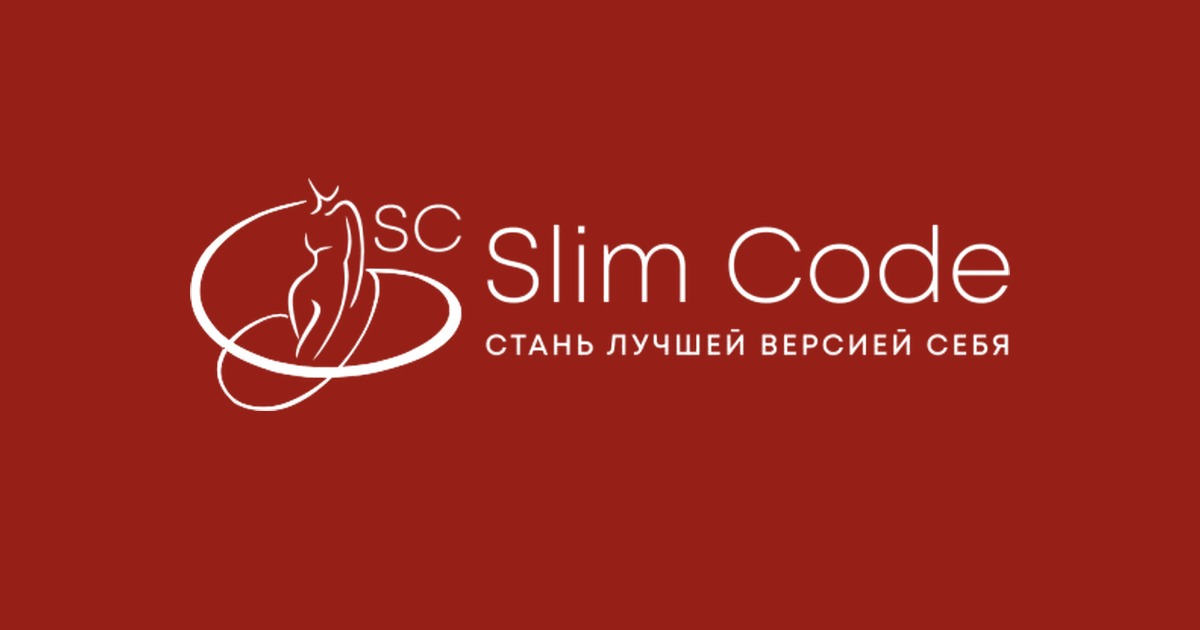
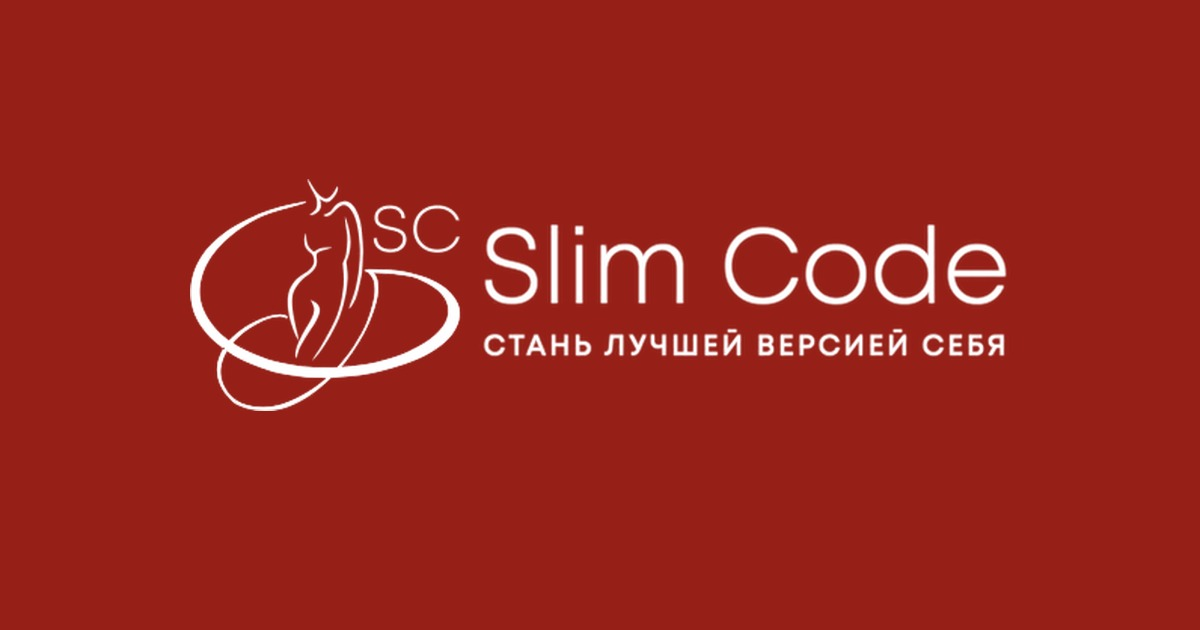
Надпись в логотипе плотнее, сборка ассетов вынесена в скрипт
Правка касается только логотипа: «Slim Code» и слоган набраны плотнее,
чем в присланном макете (+37% массы штриха у надписи). Знак — силуэт и
эллипс — не тронут: это рисунок, а не шрифт. Шрифт самого сайта возвращён
к исходному весу предыдущим коммитом.

Утолщение сделано наращиванием штриха на четырёхкратном увеличении с
последующим уменьшением, поэтому края остались гладкими.

Сборка ассетов вынесена в tools/make-logo-assets.py, исходный макет
положен в assets/source/. Сила утолщения — константа BOLD в начале
скрипта, пересобрать всё можно одной командой.

Ширина логотипа выросла с 541 до 544 px — атрибуты width в разметке
обновлены на всех четырёх страницах.

Claude-Session: https://claude.ai/code/session_01L4UBNKvQEpTDavcoSx63fQ

diff --git a/index.html b/index.html
@@ -770,7 +770,7 @@ section[id]{scroll-margin-top:80px}
 <header class="header" id="header">
   <div class="wrap header__in">
     <a href="#top" class="logo" aria-label="Slim Code Lab — на главную">
-      <img src="assets/logo.png" alt="Slim Code Lab" width="541" height="154">
+      <img src="assets/logo.png" alt="Slim Code Lab" width="544" height="154">
     </a>
 
     <nav class="nav" aria-label="Основная навигация">
@@ -1239,7 +1239,7 @@ section[id]{scroll-margin-top:80px}
     <div class="footer__top">
       <div class="footer__col">
         <a href="#top" class="logo logo--full">
-          <img src="assets/logo-full.png" alt="Slim Code Lab — стань лучшей версией себя" width="541" height="154">
+          <img src="assets/logo-full.png" alt="Slim Code Lab — стань лучшей версией себя" width="544" height="154">
         </a>
         <p class="footer__desc">Сеть салонов аппаратной коррекции фигуры в Санкт-Петербурге. Работаем с 2001 года.</p>
         <div class="socials">

diff --git a/consent.html b/consent.html
@@ -19,7 +19,7 @@
 
 <header class="top">
   <div class="wrap top__in">
-    <a href="index.html" class="logo"><img src="assets/logo.png" alt="Slim Code Lab" width="541" height="154"></a>
+    <a href="index.html" class="logo"><img src="assets/logo.png" alt="Slim Code Lab" width="544" height="154"></a>
     <a href="index.html" class="back"><span class="arw" aria-hidden="true">←</span> На главную</a>
   </div>
 </header>

diff --git a/privacy.html b/privacy.html
@@ -19,7 +19,7 @@
 
 <header class="top">
   <div class="wrap top__in">
-    <a href="index.html" class="logo"><img src="assets/logo.png" alt="Slim Code Lab" width="541" height="154"></a>
+    <a href="index.html" class="logo"><img src="assets/logo.png" alt="Slim Code Lab" width="544" height="154"></a>
     <a href="index.html" class="back"><span class="arw" aria-hidden="true">←</span> На главную</a>
   </div>
 </header>

diff --git a/terms.html b/terms.html
@@ -19,7 +19,7 @@
 
 <header class="top">
   <div class="wrap top__in">
-    <a href="index.html" class="logo"><img src="assets/logo.png" alt="Slim Code Lab" width="541" height="154"></a>
+    <a href="index.html" class="logo"><img src="assets/logo.png" alt="Slim Code Lab" width="544" height="154"></a>
     <a href="index.html" class="back"><span class="arw" aria-hidden="true">←</span> На главную</a>
   </div>
 </header>

diff --git a/tools/make-logo-assets.py b/tools/make-logo-assets.py
@@ -1,0 +1,113 @@
+# -*- coding: utf-8 -*-
+"""
+Собирает все файлы логотипа Slim Code Lab из присланного макета.
+
+Исходник — assets/source/logo-original.jpg: белая графика на фирменной
+красной плашке. Скрипт отделяет графику от фона по альфа-каналу (не обтравкой
+по контуру, а расчётом прозрачности из цвета — поэтому тонкие линии остаются
+целыми, а по краям нет красной каймы) и раскладывает на рабочие варианты.
+
+Запуск:  python3 tools/make-logo-assets.py
+Нужны:   pillow, numpy
+
+Настройка насыщенности надписи — константа BOLD ниже. Знак (силуэт и эллипс)
+не утолщается никогда: это рисунок, а не шрифт.
+"""
+import os
+import numpy as np
+from PIL import Image, ImageFilter
+
+ROOT = os.path.dirname(os.path.dirname(os.path.abspath(__file__)))
+SRC = os.path.join(ROOT, 'assets', 'source', 'logo-original.jpg')
+OUT = os.path.join(ROOT, 'assets')
+
+# Насколько плотнее делать надпись «Slim Code»:
+#   1 — как в исходнике, 3 — лёгкое (+19%), 5 — среднее (+37%), 7 — заметное (+55%)
+BOLD = 5
+BOLD_TAGLINE = 3          # подпись мельче, ей хватает меньшего наращивания
+
+BRAND = (150, 31, 23)     # #961F17 — фирменный красный с плашки
+TEXT_X = 236              # правее — надпись, левее — знак
+TAG_Y = 125               # ниже этой строки в правой части — подпись-слоган
+UP = 4                    # утолщаем на увеличении, чтобы край остался гладким
+
+
+def alpha_from_plate(path):
+    """Прозрачность белой графики поверх сплошной плашки."""
+    im = np.asarray(Image.open(path).convert('RGB')).astype(np.float32)
+    corners = np.concatenate([im[0:6, 0:6].reshape(-1, 3), im[0:6, -6:].reshape(-1, 3),
+                              im[-6:, 0:6].reshape(-1, 3), im[-6:, -6:].reshape(-1, 3)])
+    bg = np.median(corners, axis=0)
+    # p = a*255 + (1-a)*bg  →  a = (p - bg)/(255 - bg).
+    # Считаем по зелёному и синему: там контраст с красным фоном максимальный.
+    num = (im[:, :, 1] - bg[1]) + (im[:, :, 2] - bg[2])
+    a = np.clip(num / ((255 - bg[1]) + (255 - bg[2])), 0, 1)
+    a[a < 0.06] = 0       # шум JPEG вокруг контуров
+    a[a > 0.94] = 1
+    return a
+
+
+def embolden(region, kernel):
+    """Наращивает штрих: увеличиваем, расширяем максимум-фильтром, уменьшаем обратно."""
+    if kernel <= 1:
+        return region
+    h, w = region.shape
+    img = Image.fromarray((region * 255).round().astype(np.uint8), 'L')
+    img = img.resize((w * UP, h * UP), Image.LANCZOS).filter(ImageFilter.MaxFilter(kernel))
+    img = img.resize((w, h), Image.LANCZOS)
+    return np.asarray(img).astype(np.float32) / 255
+
+
+def layer(alpha, rgb):
+    """Обрезает по содержимому и красит в нужный цвет."""
+    ys, xs = np.nonzero(alpha)
+    crop = alpha[ys.min():ys.max() + 1, xs.min():xs.max() + 1]
+    h, w = crop.shape
+    out = np.zeros((h, w, 4), dtype=np.uint8)
+    out[:, :, 0], out[:, :, 1], out[:, :, 2] = rgb
+    out[:, :, 3] = (crop * 255).round().astype(np.uint8)
+    return Image.fromarray(out, 'RGBA')
+
+
+def icon(mark, size, pad_ratio=0.16):
+    m = layer(mark, (255, 255, 255))
+    box = int(size * (1 - 2 * pad_ratio))
+    scale = min(box / m.width, box / m.height)
+    m = m.resize((max(1, round(m.width * scale)), max(1, round(m.height * scale))), Image.LANCZOS)
+    canvas = Image.new('RGBA', (size, size), BRAND + (255,))
+    canvas.alpha_composite(m, ((size - m.width) // 2, (size - m.height) // 2))
+    return canvas
+
+
+def main():
+    a = alpha_from_plate(SRC)
+    a[:TAG_Y, TEXT_X:] = embolden(a[:TAG_Y, TEXT_X:], BOLD)
+    a[TAG_Y:, TEXT_X:] = embolden(a[TAG_Y:, TEXT_X:], BOLD_TAGLINE)
+    a = np.clip(a, 0, 1)
+
+    compact = a.copy()
+    compact[TAG_Y:, TEXT_X + 4:] = 0        # в шапке слоган не нужен: на 32-38 px он нечитаем
+    mark = np.zeros_like(a)
+    mark[:, :235] = a[:, :235]
+
+    layer(a, (255, 255, 255)).save(os.path.join(OUT, 'logo-full.png'), optimize=True)
+    layer(compact, (255, 255, 255)).save(os.path.join(OUT, 'logo.png'), optimize=True)
+    layer(compact, BRAND).save(os.path.join(OUT, 'logo-dark.png'), optimize=True)
+    layer(mark, (255, 255, 255)).save(os.path.join(OUT, 'logo-mark.png'), optimize=True)
+    icon(mark, 32).save(os.path.join(OUT, 'favicon-32.png'), optimize=True)
+    icon(mark, 180).save(os.path.join(OUT, 'apple-touch-icon.png'), optimize=True)
+
+    og = Image.new('RGBA', (1200, 630), BRAND + (255,))
+    full = layer(a, (255, 255, 255))
+    full = full.resize((820, round(full.height * 820 / full.width)), Image.LANCZOS)
+    og.alpha_composite(full, ((1200 - full.width) // 2, (630 - full.height) // 2 - 20))
+    og.convert('RGB').save(os.path.join(OUT, 'og-cover.jpg'), quality=92, optimize=True)
+
+    for f in sorted(os.listdir(OUT)):
+        p = os.path.join(OUT, f)
+        if os.path.isfile(p):
+            print('%-24s %-9s %5.1f КБ' % (f, '%dx%d' % Image.open(p).size, os.path.getsize(p) / 1024))
+
+
+if __name__ == '__main__':
+    main()

diff --git a/README.md b/README.md
@@ -16,6 +16,8 @@
 | `consent.html` | согласие на обработку персональных данных (шаблон) |
 | `legal.css` | общие стили трёх юридических страниц |
 | `assets/` | фирменный логотип, иконки и обложка для соцсетей |
+| `assets/source/` | исходный макет логотипа, из которого собрано остальное |
+| `tools/make-logo-assets.py` | пересобирает все файлы логотипа из исходника |
 | `telegram-proxy.php` | приём заявок и отправка в Telegram — для хостинга с PHP |
 | `telegram-worker.js` | то же самое для Cloudflare Workers |
 | `robots.txt` | правила обхода + ссылка на карту сайта |
@@ -74,6 +76,17 @@
 
 Размеры в вёрстке заданы по высоте (`.logo img{height:…}`), пропорции считает
 браузер — поменять масштаб можно одной строкой.
+
+Все файлы собираются из `assets/source/logo-original.jpg` скриптом:
+
+```
+python3 tools/make-logo-assets.py
+```
+
+Надпись «Slim Code» набрана плотнее исходного макета — за это отвечает
+константа `BOLD` в начале скрипта: `1` — как в макете, `3` — лёгкое
+утолщение, `5` — текущее (+37% массы штриха), `7` — заметное. Знак
+(силуэт и эллипс) не утолщается никогда: это рисунок, а не шрифт.
 
 **Если есть исходник логотипа в векторе** (SVG, AI, EPS) — пришлите, заменю
 растр на SVG: он будет чётким на любом экране и займёт пару килобайт вместо
